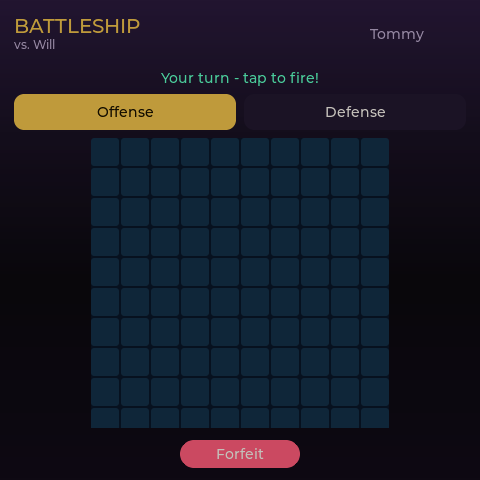
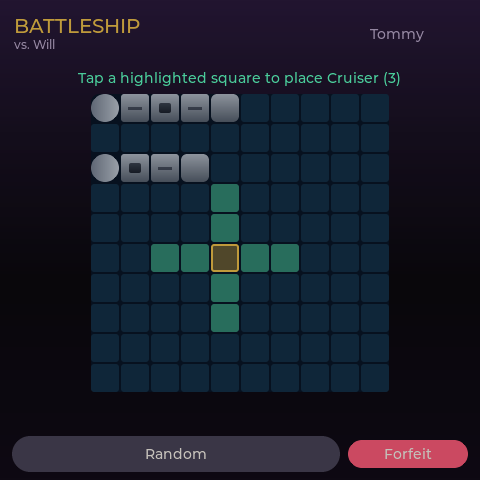
Normalize README shot sizes and seed richer demo screens.
Force equal thumb widths; retake history, battleship setup, mid-game checkers, and a filled checklist.

Changed region(s): [[0.0, 0.1562, 1.0, 1.0]]

diff --git a/firmware/src/main.cpp b/firmware/src/main.cpp
@@ -3,7 +3,9 @@
 #include "lvgl/lvgl.h"
 
 #include "app/app.h"
+#include "app/checklist.h"
 #include "app/desk_timer.h"
+#include "app/page_log.h"
 #include "sim/screenshot.h"
 #include "ui/brightness.h"
 #include "ui/nav.h"
@@ -97,7 +99,15 @@ int main() {
       std::snprintf(d.incoming.message, sizeof(d.incoming.message), "Lipsync for your life");
       go_incoming();
     }
-    else if (is("page-history") || is("history")) go_page_history();
+    else if (is("page-history") || is("history")) {
+      wp::page_log::clear();
+      wp::page_log::add(wp::page_log::Dir::Out, "Will", "👑", "Got a sec?");
+      wp::page_log::add(wp::page_log::Dir::In, "Will", "💅", "Lipsync for your life");
+      wp::page_log::add(wp::page_log::Dir::Out, "Alex", "☕", "Coffee run?");
+      wp::page_log::add(wp::page_log::Dir::In, "Alex", "👀", "Coming down");
+      wp::page_log::add(wp::page_log::Dir::Out, "Will", "✨", "You busy?");
+      go_page_history();
+    }
     else if (is("gamesfolder") || is("games")) go_games_folder();
     else if (is("ttt")) go_ttt();
     else if (is("ttt-play")) games_debug_show("ttt", "play");
@@ -125,7 +135,17 @@ int main() {
     else if (is("scoreboard")) go_scoreboard();
     else if (is("utilsfolder") || is("utils")) go_utils_folder();
     else if (is("timer")) go_timer();
-    else if (is("checklist")) go_checklist();
+    else if (is("checklist")) {
+      wp::checklist::clear_all();
+      wp::checklist::add("Standup notes");
+      wp::checklist::add("Ping Will about lunch");
+      wp::checklist::add("Flash board firmware");
+      wp::checklist::add("Order USB-C cables");
+      wp::checklist::add("Test ESP-NOW range");
+      wp::checklist::toggle(0);
+      wp::checklist::toggle(2);
+      go_checklist();
+    }
     else if (is("calculator") || is("calc")) go_calculator();
     else if (is("doodle")) go_doodle();
     else if (is("doodle-draw")) doodle_debug_show_draw();

diff --git a/firmware/src/ui/scr_games.cpp b/firmware/src/ui/scr_games.cpp
@@ -2941,7 +2941,13 @@ void games_debug_show(const char * game, const char * panel) {
     d.bs.my_turn = true;
     d.bs.mode = (panel && !std::strcmp(panel, "defense")) ? 1 : 0;
     if (d.bs.setup) {
-      std::snprintf(d.bs.last_msg, sizeof(d.bs.last_msg), "Place your fleet");
+      games::bs::clear_fleet(d.bs.fleet);
+      /* Two ships down; anchor set for next (Cruiser) so ghost placements show. */
+      games::bs::place_ship(d.bs.fleet, 0, 0, 0, true);  /* Carrier */
+      games::bs::place_ship(d.bs.fleet, 1, 0, 2, true);  /* Battleship */
+      d.bs.anchor_x = 4;
+      d.bs.anchor_y = 5;
+      std::snprintf(d.bs.last_msg, sizeof(d.bs.last_msg), "Tap a highlighted square to place Cruiser (3)");
     } else {
       games::bs::random_fleet(d.bs.fleet);
       std::snprintf(d.bs.last_msg, sizeof(d.bs.last_msg), "Your turn - tap to fire!");
@@ -2961,6 +2967,19 @@ void games_debug_show(const char * game, const char * panel) {
     d.ck.turn = 'r';
     games::ck::init(d.ck.board);
     seed_peer(d.ck);
+    if (panel && !std::strcmp(panel, "play")) {
+      /* Mid-game: a few men advanced / traded. */
+      d.ck.board[5][2] = 0;
+      d.ck.board[4][3] = 'r';
+      d.ck.board[5][4] = 0;
+      d.ck.board[3][4] = 'r';
+      d.ck.board[2][1] = 0;
+      d.ck.board[3][2] = 'b';
+      d.ck.board[2][5] = 0;
+      d.ck.board[1][2] = 0; /* traded */
+      d.ck.sel_x = 3;
+      d.ck.sel_y = 4;
+    }
     if (panel && !std::strcmp(panel, "win")) {
       /* Clear opponent pieces so red wins. */
       for (int y = 0; y < games::ck::kSize; ++y)

diff --git a/README.md b/README.md
@@ -8,57 +8,57 @@ Active development is the **LVGL PC simulator** under `firmware/` — the same U
 
 ## Screenshots
 
-LVGL PC sim (480×480). One shot per screen; games show a mid-play board.
+LVGL PC sim (480×480). One shot per screen; games show a mid-play board. All thumbs are the same width.
 
 ### Shell
 
 | Splash | Setup | Home | Idle |
 |:------:|:-----:|:----:|:----:|
-| ![Splash](docs/screenshots/splash.png) | ![Setup](docs/screenshots/setup.png) | ![Home](docs/screenshots/hub.png) | ![Idle](docs/screenshots/idle.png) |
+| <img src="docs/screenshots/splash.png" width="140" alt="Splash" /> | <img src="docs/screenshots/setup.png" width="140" alt="Setup" /> | <img src="docs/screenshots/hub.png" width="140" alt="Home" /> | <img src="docs/screenshots/idle.png" width="140" alt="Idle" /> |
 
 ### WerkPager
 
 | Peers | Compose | Outgoing | Incoming |
 |:-----:|:-------:|:--------:|:--------:|
-| ![Werk](docs/screenshots/werk.png) | ![Compose](docs/screenshots/compose.png) | ![Outgoing](docs/screenshots/outgoing.png) | ![Incoming](docs/screenshots/incoming.png) |
+| <img src="docs/screenshots/werk.png" width="140" alt="WerkPager" /> | <img src="docs/screenshots/compose.png" width="140" alt="Compose" /> | <img src="docs/screenshots/outgoing.png" width="140" alt="Outgoing" /> | <img src="docs/screenshots/incoming.png" width="140" alt="Incoming" /> |
 
 | Page history | | | |
 |:------------:|---|---|---|
-| ![Page history](docs/screenshots/page-history.png) | | | |
+| <img src="docs/screenshots/page-history.png" width="140" alt="Page history" /> | | | |
 
 ### Games
 
 | Folder | Tic Tac Toe | Super TTT | Connect Four |
 |:------:|:-----------:|:---------:|:------------:|
-| ![Games](docs/screenshots/games.png) | ![TTT](docs/screenshots/ttt.png) | ![STTT](docs/screenshots/sttt.png) | ![C4](docs/screenshots/c4.png) |
+| <img src="docs/screenshots/games.png" width="140" alt="Games" /> | <img src="docs/screenshots/ttt.png" width="140" alt="Tic Tac Toe" /> | <img src="docs/screenshots/sttt.png" width="140" alt="Super TTT" /> | <img src="docs/screenshots/c4.png" width="140" alt="Connect Four" /> |
 
 | Battleship | Checkers | Memory | Reversi |
 |:----------:|:--------:|:------:|:-------:|
-| ![Battleship](docs/screenshots/battleship.png) | ![Checkers](docs/screenshots/checkers.png) | ![Memory](docs/screenshots/memory.png) | ![Reversi](docs/screenshots/reversi.png) |
+| <img src="docs/screenshots/battleship.png" width="140" alt="Battleship" /> | <img src="docs/screenshots/checkers.png" width="140" alt="Checkers" /> | <img src="docs/screenshots/memory.png" width="140" alt="Memory" /> | <img src="docs/screenshots/reversi.png" width="140" alt="Reversi" /> |
 
 | Dots & Boxes | Scoreboard | | |
 |:------------:|:----------:|---|---|
-| ![Dots](docs/screenshots/dots.png) | ![Scoreboard](docs/screenshots/scoreboard.png) | | |
+| <img src="docs/screenshots/dots.png" width="140" alt="Dots and Boxes" /> | <img src="docs/screenshots/scoreboard.png" width="140" alt="Scoreboard" /> | | |
 
 ### Utilities & doodle
 
 | Utils | Timer | Checklist | Calculator |
 |:-----:|:-----:|:---------:|:----------:|
-| ![Utils](docs/screenshots/utils.png) | ![Timer](docs/screenshots/timer.png) | ![Checklist](docs/screenshots/checklist.png) | ![Calculator](docs/screenshots/calculator.png) |
+| <img src="docs/screenshots/utils.png" width="140" alt="Utilities" /> | <img src="docs/screenshots/timer.png" width="140" alt="Timer" /> | <img src="docs/screenshots/checklist.png" width="140" alt="Checklist" /> | <img src="docs/screenshots/calculator.png" width="140" alt="Calculator" /> |
 
 | Doodle pick | Doodle draw | | |
 |:-----------:|:-----------:|---|---|
-| ![Doodle](docs/screenshots/doodle.png) | ![Doodle draw](docs/screenshots/doodle-draw.png) | | |
+| <img src="docs/screenshots/doodle.png" width="140" alt="Doodle pick" /> | <img src="docs/screenshots/doodle-draw.png" width="140" alt="Doodle draw" /> | | |
 
 ### Settings
 
 | Settings | Keyboard | Emoji picker | Wi‑Fi scan |
 |:--------:|:--------:|:------------:|:----------:|
-| ![Settings](docs/screenshots/settings.png) | ![Keyboard](docs/screenshots/keyboard.png) | ![Emoji](docs/screenshots/emoji.png) | ![Wi‑Fi](docs/screenshots/wifi.png) |
+| <img src="docs/screenshots/settings.png" width="140" alt="Settings" /> | <img src="docs/screenshots/keyboard.png" width="140" alt="Keyboard" /> | <img src="docs/screenshots/emoji.png" width="140" alt="Emoji picker" /> | <img src="docs/screenshots/wifi.png" width="140" alt="Wi-Fi scan" /> |
 
 | Wi‑Fi password | Updates (OTA) | Background QR upload | |
 |:--------------:|:-------------:|:--------------------:|---|
-| ![Wi‑Fi password](docs/screenshots/wifi-pass.png) | ![OTA](docs/screenshots/ota.png) | ![Background upload](docs/screenshots/bg-upload.png) | |
+| <img src="docs/screenshots/wifi-pass.png" width="140" alt="Wi-Fi password" /> | <img src="docs/screenshots/ota.png" width="140" alt="OTA updates" /> | <img src="docs/screenshots/bg-upload.png" width="140" alt="Background QR upload" /> | |
 
 ---
 
